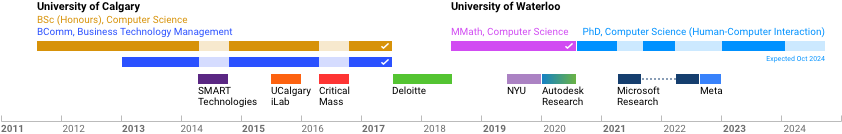
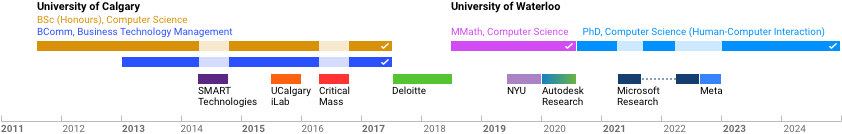
Post-PhD updates

Changed region(s): [[0.9264, 0.2985, 1.0, 0.3881], [0.8955, 0.4179, 0.9881, 0.4776]]

diff --git a/index.html b/index.html
@@ -65,19 +65,22 @@
                 </div>
 
                 <div class="text-block">
-                    <p>I'm a PhD candidate in the <a href="http://hci.cs.uwaterloo.ca/">UWaterloo HCI Lab</a>, supervised by <a href="http://www.nonsequitoria.com/"> Daniel Vogel</a>. 
-                        My work focuses on <b>designing, implementing, and understanding interaction techniques that facilitate more inclusive computing</b>.
+
+                    <p>My work focuses on <b>designing, implementing, and understanding interaction techniques that facilitate more inclusive computing</b>.</p>
+
+                    <p>I earned my PhD in Computer Science (Human-Computer Interation) working in the <a href="http://hci.cs.uwaterloo.ca/">UWaterloo HCI Lab</a>, supervised by <a href="http://www.nonsequitoria.com/"> Daniel Vogel</a>. 
+                        
                     </p>
 
                     <p>
-                        My research process involves qualitative methods and co-design, prototyping new interfaces and interaction techniques, then deploying controlled user studies for empirical findings. My PhD explores improving VR’s accessibility for people with motor disabilities by combining more familiar input devices (game controllers, mice, etc.) to supplement or replace VR hand controllers.
+                        My research process involves qualitative methods and co-design, prototyping new interfaces and interaction techniques, then deploying controlled user studies for empirical findings. My PhD explored improving VR’s accessibility for people with motor disabilities by combining more familiar input devices (game controllers, mice, etc.) to supplement or replace VR controllers.
                     </p>
 
                     <p>Recently, I’ve been exploring how machine learning models of gaze-tracking can aid diagnosis of eye movement conditions, how users can interact with AI for VR environment design, and how inferring user context can make remapping 3D motion in VR easier for users as well as developers.
 
                         </p>
 
-                    <p>During my graduate studies I have interned with <span class="text-bold">Meta Reality Labs</span> (CTRL-Labs), <span class="text-bold">Microsoft Research</span> (Ability Team), <span class="text-bold">Autodesk Research</span> (UI Research Group), and <span class="text-bold">New York University</span> (Future Reality Lab).</p>
+                    <p>During my PhD I interned with <span class="text-bold">Meta Reality Labs</span> (CTRL-Labs), <span class="text-bold">Microsoft Research</span> (Ability Team), <span class="text-bold">Autodesk Research</span> (UI Research Group), and <span class="text-bold">New York University</span> (Future Reality Lab).</p>
                 
                 </div>
         
@@ -121,7 +124,7 @@
                         <p class="text-left"><b>Johann Wentzel</b>, Matthew Lakier, Jeremy Hartmann, Falah Shazib, Géry Casiez, Daniel Vogel</p>
                         <p class="text-left item-tech"> 
                             <small class="text-muted">
-                                <a href="projects/vrmm/files/Wentzel_TVCG.pdf">PDF (Preprint)</a> -
+                                <a href="projects/vrmm/files/Wentzel_TVCG.pdf">PDF</a> -
                                 <a href="https://doi.org/10.1109/TVCG.2024.3420236">IEEE</a> -
                                 <a href="projects/vrmm/index.html">Blog</a>
                             </small></p>

diff --git a/projects/vrmm/index.html b/projects/vrmm/index.html
@@ -53,7 +53,7 @@
             </div>
             <br>
             <div class="d-inline-flex flex-row col-12">
-                <a class="p-2 download-link rounded" href="files/Wentzel_TVCG.pdf">Preprint (PDF)</a>
+                <a class="p-2 download-link rounded" href="files/Wentzel_TVCG.pdf">PDF</a>
                 <a class="p-2 download-link rounded" href="https://doi.org/10.1109/TVCG.2024.3420236">IEEE Xplore</a>
             </div>
         </div>
